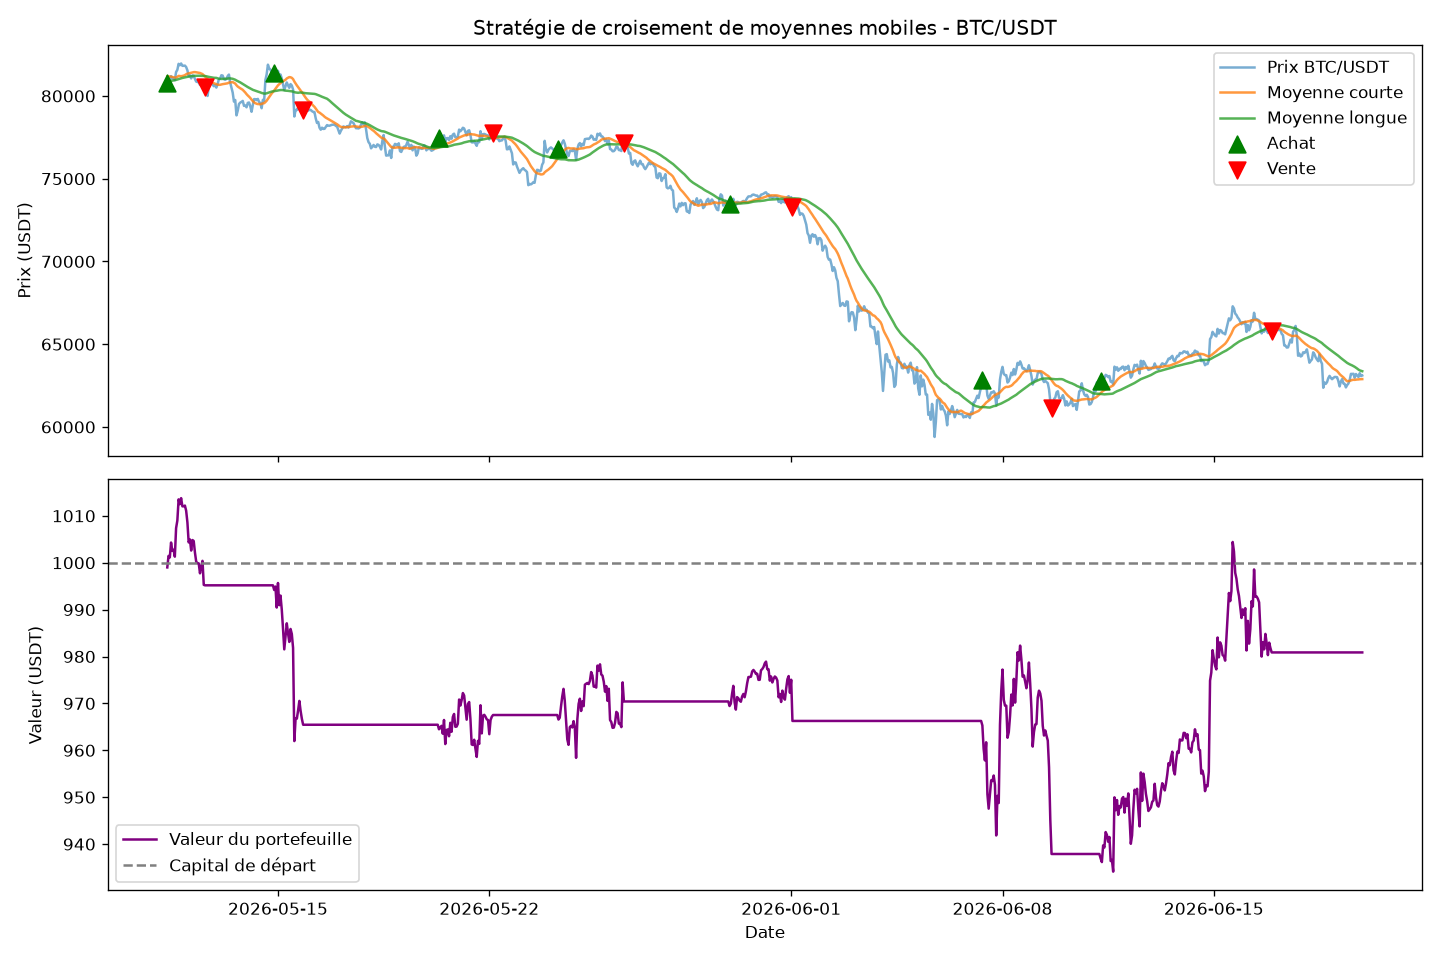
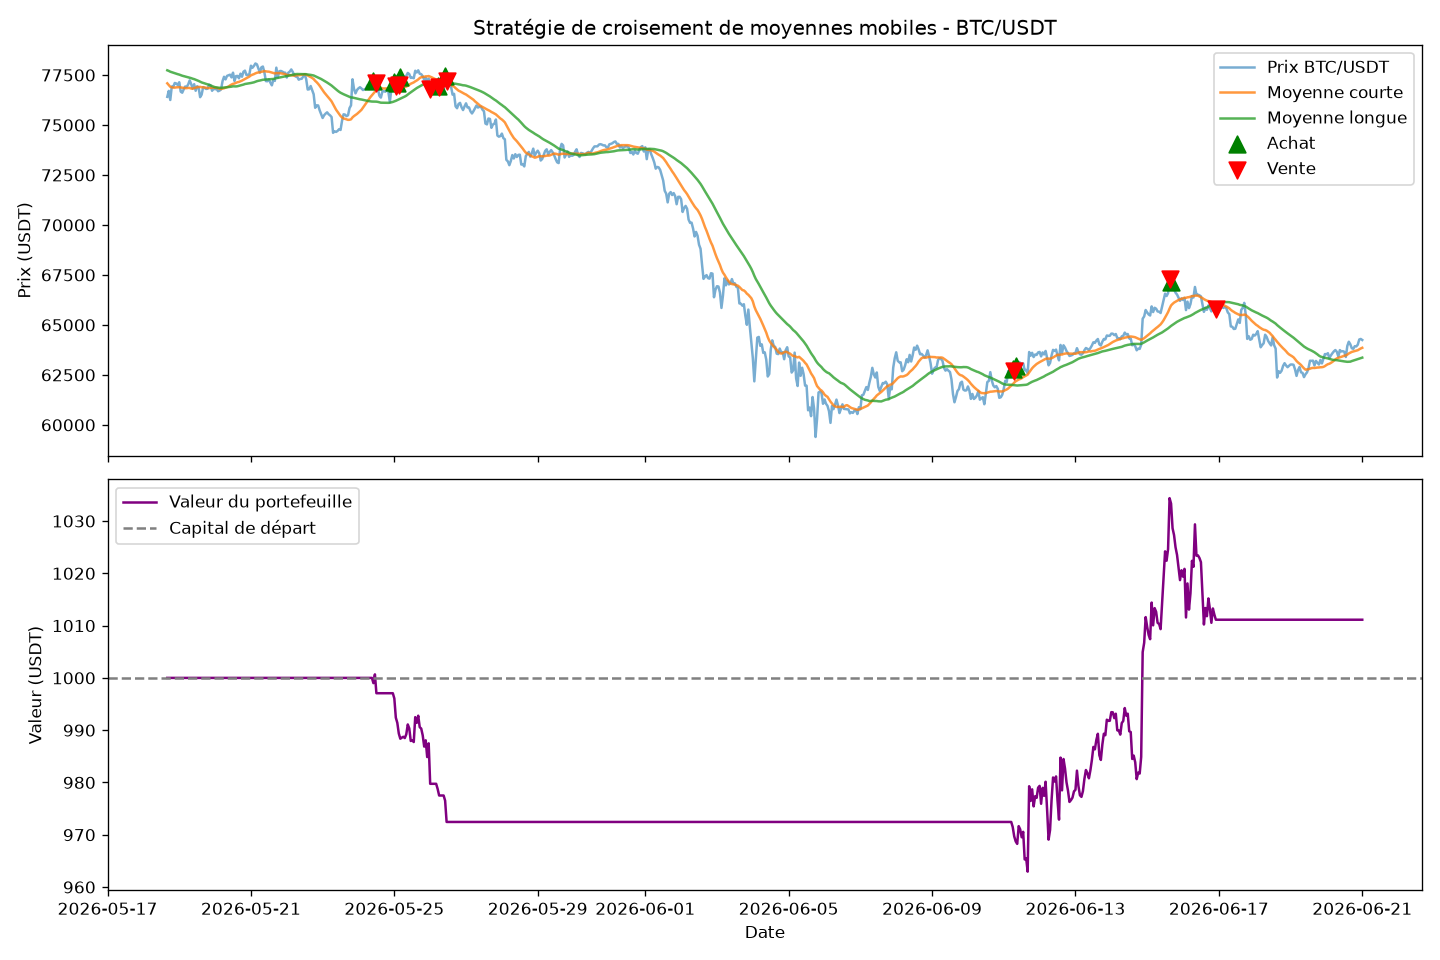
update

diff --git a/trade_log.html b/trade_log.html
@@ -21,94 +21,124 @@
     <h1>Détail des trades — Stratégie de croisement de moyennes mobiles</h1>
     <div class="summary">
         <p>Capital de départ : <b>1000.00 USDT</b></p>
-        <p>Trades gagnants : <span class="gagnant">3</span> |
-           Trades perdants : <span class="perdant">4</span></p>
+        <p>Trades gagnants : <span class="gagnant">1</span> |
+           Trades perdants : <span class="perdant">8</span></p>
     </div>
     <table>
         <thead>
             <tr>
                 <th>#</th><th>Date achat</th><th>Date vente</th>
                 <th>Prix achat</th><th>Prix vente</th>
-                <th>Investi (USDT)</th><th>Récupéré (USDT)</th><th>Profit</th>
+                <th>Investi (USDT)</th><th>Récupéré (USDT)</th><th>Profit</th><th>Raison</th>
             </tr>
         </thead>
         <tbody>
             
         <tr class="perdant">
             <td>1</td>
-            <td>2026-05-11 08:00</td>
-            <td>2026-05-12 14:00</td>
-            <td>80767.97</td>
-            <td>80540.00</td>
+            <td>2026-05-24 10:00</td>
+            <td>2026-05-24 12:00</td>
+            <td>77190.74</td>
+            <td>77118.73</td>
             <td>1000.00</td>
-            <td>995.18</td>
-            <td>-4.82 USDT (-0.48%)</td>
+            <td>997.07</td>
+            <td>-2.93 USDT (-0.29%)</td>
+            <td>SIGNAL</td>
         </tr>
         <tr class="perdant">
             <td>2</td>
-            <td>2026-05-14 21:00</td>
-            <td>2026-05-15 20:00</td>
-            <td>81396.61</td>
-            <td>79123.12</td>
-            <td>995.18</td>
-            <td>965.45</td>
-            <td>-29.73 USDT (-2.99%)</td>
+            <td>2026-05-25 00:00</td>
+            <td>2026-05-25 01:00</td>
+            <td>77153.01</td>
+            <td>76945.27</td>
+            <td>997.07</td>
+            <td>992.40</td>
+            <td>-4.67 USDT (-0.47%)</td>
+            <td>SIGNAL</td>
         </tr>
-        <tr class="gagnant">
+        <tr class="perdant">
             <td>3</td>
-            <td>2026-05-20 08:00</td>
-            <td>2026-05-22 03:00</td>
-            <td>77458.04</td>
-            <td>77779.98</td>
-            <td>965.45</td>
-            <td>967.53</td>
-            <td>+2.07 USDT (+0.21%)</td>
+            <td>2026-05-25 02:00</td>
+            <td>2026-05-25 03:00</td>
+            <td>77108.77</td>
+            <td>77026.67</td>
+            <td>992.40</td>
+            <td>989.36</td>
+            <td>-3.04 USDT (-0.31%)</td>
+            <td>SIGNAL</td>
         </tr>
-        <tr class="gagnant">
+        <tr class="perdant">
             <td>4</td>
-            <td>2026-05-24 07:00</td>
-            <td>2026-05-26 11:00</td>
-            <td>76799.99</td>
-            <td>77183.55</td>
-            <td>967.53</td>
-            <td>970.42</td>
-            <td>+2.89 USDT (+0.30%)</td>
+            <td>2026-05-25 04:00</td>
+            <td>2026-05-26 00:00</td>
+            <td>77391.07</td>
+            <td>76792.71</td>
+            <td>989.36</td>
+            <td>979.75</td>
+            <td>-9.61 USDT (-0.97%)</td>
+            <td>SIGNAL</td>
         </tr>
         <tr class="perdant">
             <td>5</td>
-            <td>2026-05-29 23:00</td>
-            <td>2026-06-01 01:00</td>
-            <td>73460.78</td>
-            <td>73292.92</td>
-            <td>970.42</td>
-            <td>966.26</td>
-            <td>-4.15 USDT (-0.43%)</td>
+            <td>2026-05-26 05:00</td>
+            <td>2026-05-26 06:00</td>
+            <td>76930.01</td>
+            <td>76908.01</td>
+            <td>979.75</td>
+            <td>977.51</td>
+            <td>-2.24 USDT (-0.23%)</td>
+            <td>SIGNAL</td>
         </tr>
         <tr class="perdant">
             <td>6</td>
-            <td>2026-06-07 08:00</td>
-            <td>2026-06-09 15:00</td>
-            <td>62855.01</td>
-            <td>61131.84</td>
-            <td>966.26</td>
-            <td>937.90</td>
-            <td>-28.37 USDT (-2.94%)</td>
+            <td>2026-05-26 10:00</td>
+            <td>2026-05-26 11:00</td>
+            <td>77430.00</td>
+            <td>77183.55</td>
+            <td>977.51</td>
+            <td>972.45</td>
+            <td>-5.06 USDT (-0.52%)</td>
+            <td>SIGNAL</td>
         </tr>
-        <tr class="gagnant">
+        <tr class="perdant">
             <td>7</td>
             <td>2026-06-11 06:00</td>
-            <td>2026-06-16 22:00</td>
+            <td>2026-06-11 07:00</td>
             <td>62772.00</td>
+            <td>62719.39</td>
+            <td>972.45</td>
+            <td>969.69</td>
+            <td>-2.76 USDT (-0.28%)</td>
+            <td>SIGNAL</td>
+        </tr>
+        <tr class="gagnant">
+            <td>8</td>
+            <td>2026-06-11 08:00</td>
+            <td>2026-06-15 15:00</td>
+            <td>62957.99</td>
+            <td>67292.14</td>
+            <td>969.69</td>
+            <td>1034.38</td>
+            <td>+64.68 USDT (+6.67%)</td>
+            <td>TAKE_PROFIT</td>
+        </tr>
+        <tr class="perdant">
+            <td>9</td>
+            <td>2026-06-15 16:00</td>
+            <td>2026-06-16 22:00</td>
+            <td>67157.99</td>
             <td>65780.00</td>
-            <td>937.90</td>
-            <td>980.87</td>
-            <td>+42.98 USDT (+4.58%)</td>
+            <td>1034.38</td>
+            <td>1011.13</td>
+            <td>-23.25 USDT (-2.25%)</td>
+            <td>SIGNAL</td>
         </tr>
             <tr class="final">
                 <td colspan="5">CAPITAL FINAL</td>
                 <td>1000.00</td>
-                <td>980.87</td>
-                <td>-19.13 USDT (-1.91%)</td>
+                <td>1011.13</td>
+                <td>+11.13 USDT (+1.11%)</td>
+                <td></td>
             </tr>
         </tbody>
     </table>